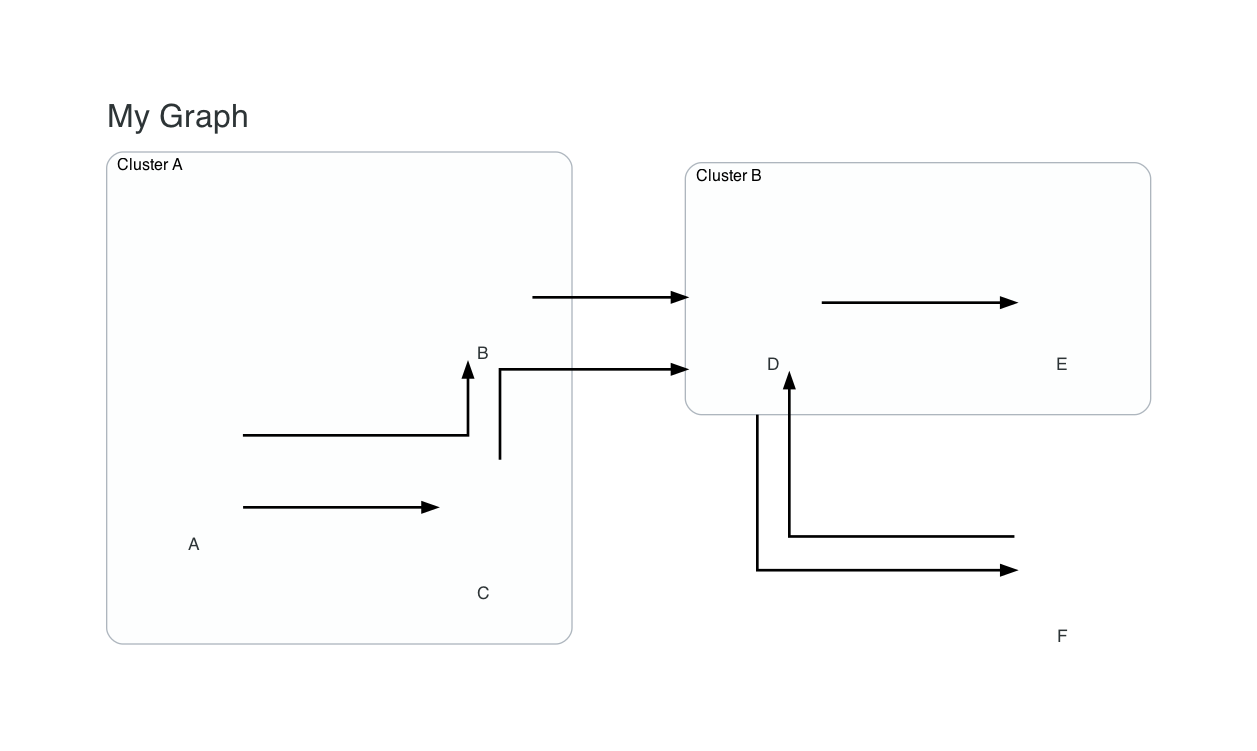
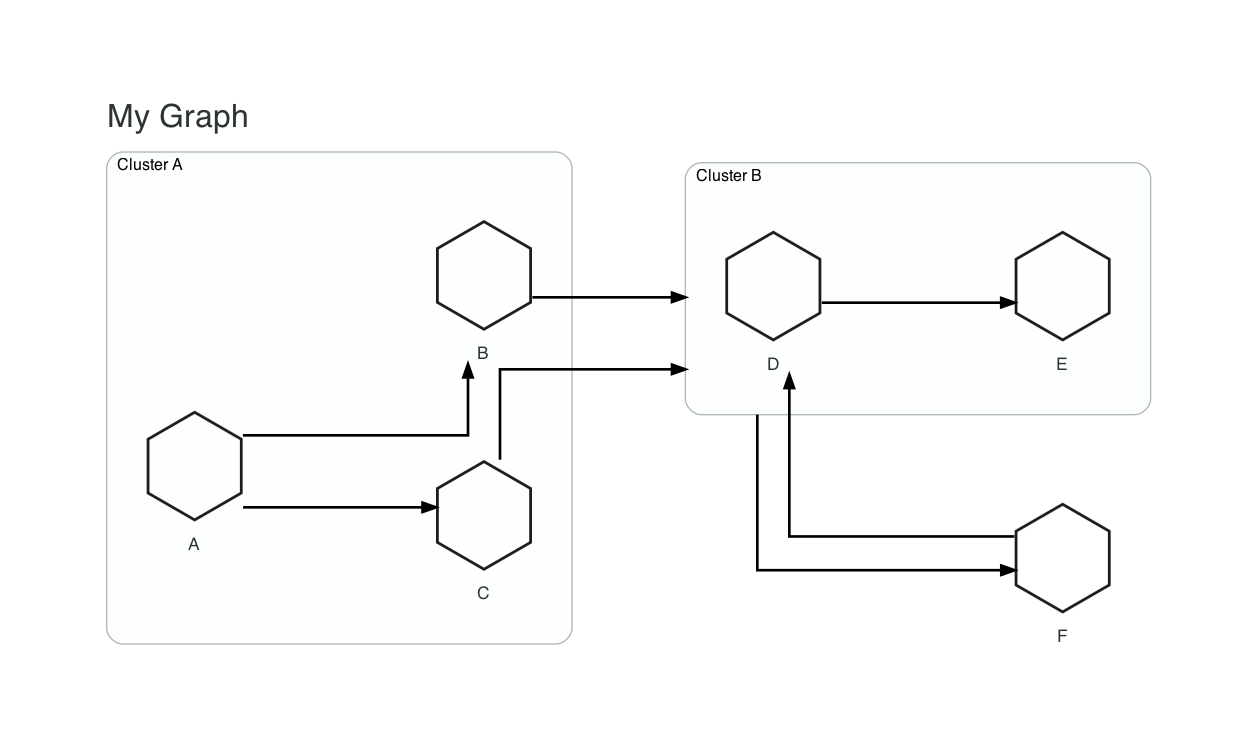
updated readme

diff --git a/examples/testing.py b/examples/testing.py
@@ -1,16 +1,20 @@
-# Import the base objects
 from architectures.core import Graph, Cluster, Group, Node, Edge, Flow
 
-# Import the available themes
-from architectures.themes import Default, LightMode, DarkMode
+# Import the LightMode theme
+from architectures.themes import LightMode
 
-# Import provider services
-from architectures.providers.azure.networking import ApplicationGateway, LoadBalancer
-from architectures.providers.azure.compute import VirtualMachineWindows
-from architectures.providers.azure.data import DataLake
+theme = LightMode()
 
-# Set the theme
-theme = Default()
+with Graph("My Graph", theme=theme):
+    with Cluster("Cluster A") as cluster_a:
+        a = Node("A")
+        b = Node("B")
+        c = Node("C")
 
-with Graph("Basic Architecture", theme=theme):
-    Flow([Node("A"), Node("B"), [Node("C"), Node("D"), Node("E")]])
+    with Cluster("Cluster B") as cluster_b:
+        d = Node("D")
+        e = Node("E")
+
+    f = Node("F")
+
+    Flow([a, [b, c], cluster_b, f, d, e])
